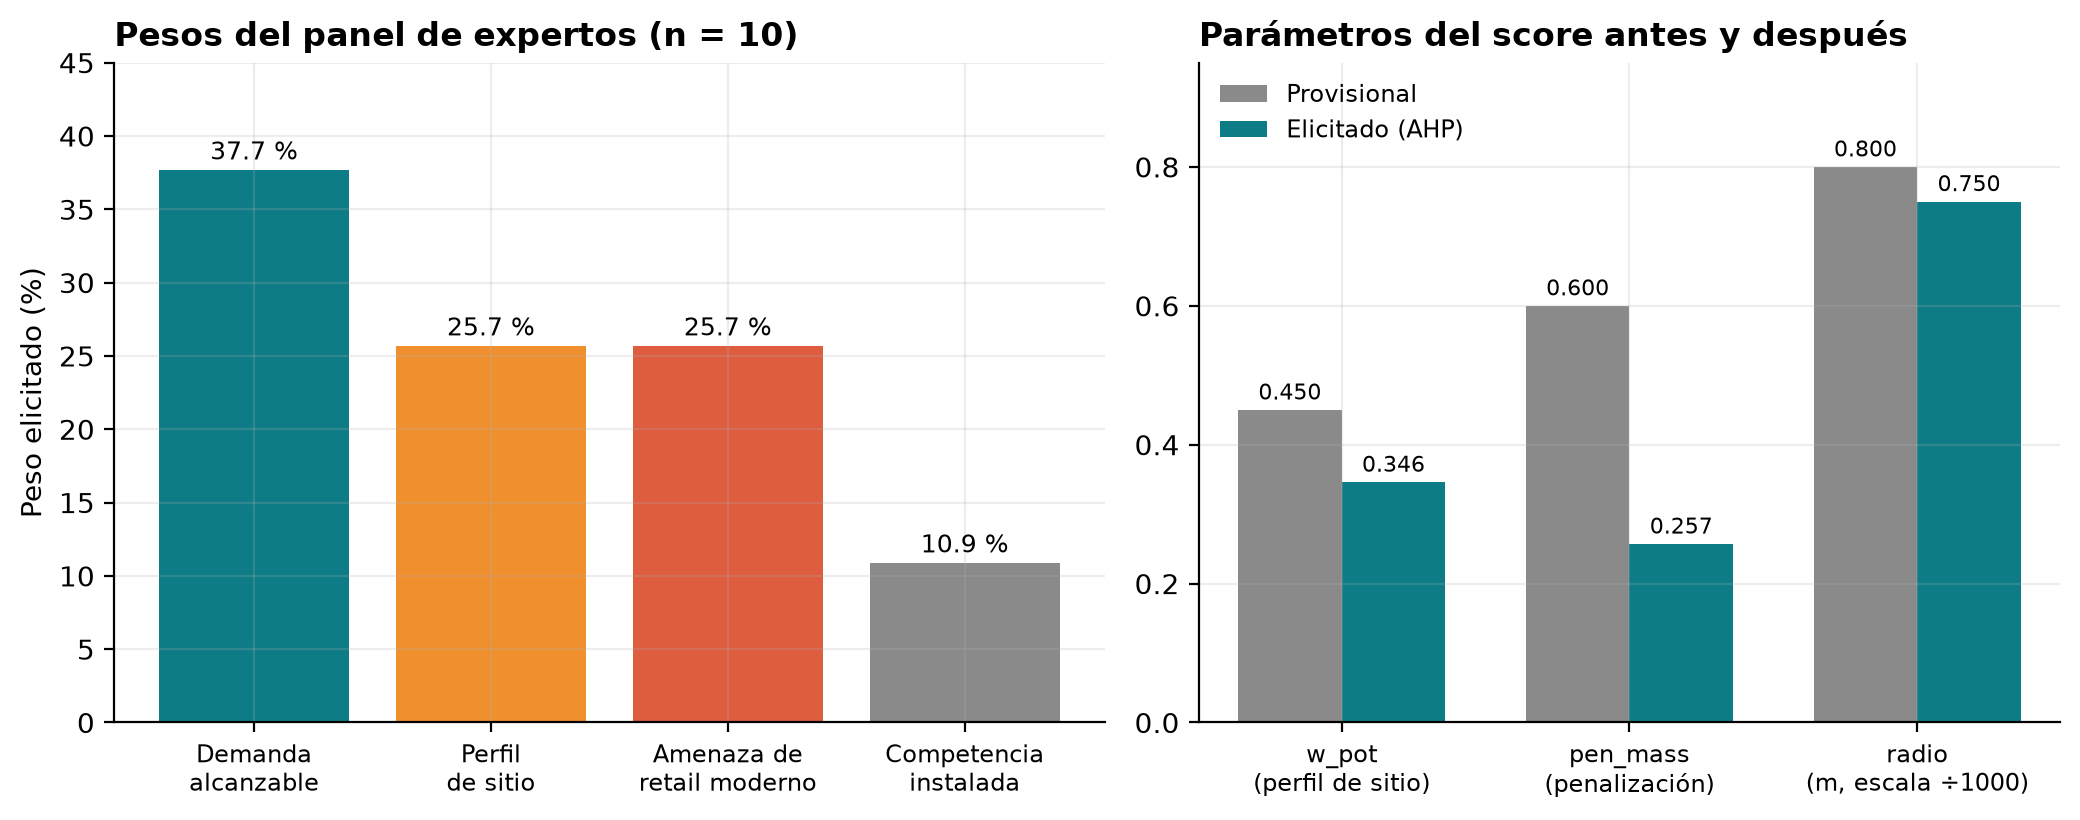
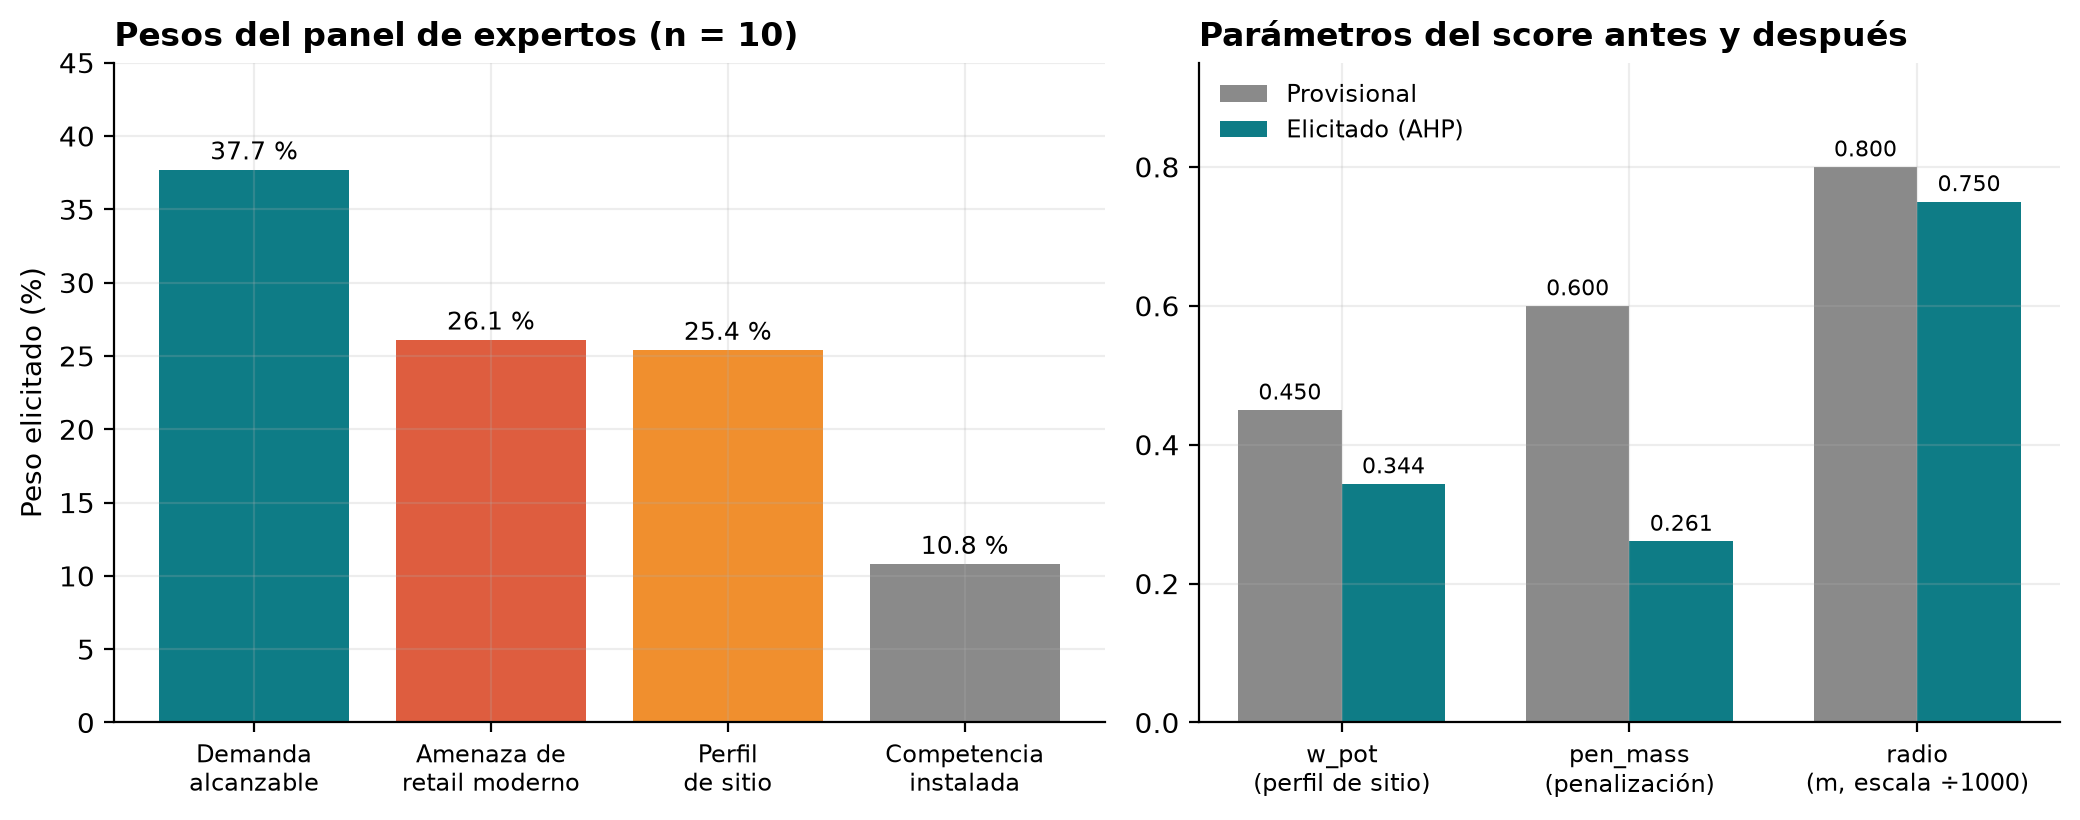
Usar los pesos AHP de la Tabla 14 en la figura 26 y en la sensibilidad

diff --git a/figuras_capitulo5.py b/figuras_capitulo5.py
@@ -119,13 +119,13 @@ for yy, v, p in zip(y, n, pob):
 ax.set_xlim(0, max(n) + 5)
 guardar(fig, "fig25_distribucion_territorial.png")
 
-crit = ["Demanda\nalcanzable", "Perfil\nde sitio", "Amenaza de\nretail moderno",
+crit = ["Demanda\nalcanzable", "Amenaza de\nretail moderno", "Perfil\nde sitio",
         "Competencia\ninstalada"]
-pes = [.377, .257, .257, .109]
+pes = [.377, .261, .254, .108]
 fig, (a1, a2) = plt.subplots(1, 2, figsize=(10.5, 4.2),
                              gridspec_kw={"width_ratios": [1.15, 1]})
 x = np.arange(len(crit))
-a1.bar(x, [p * 100 for p in pes], color=[PETROL, AMBAR, NARANJA, GRIS])
+a1.bar(x, [p * 100 for p in pes], color=[PETROL, NARANJA, AMBAR, GRIS])
 a1.set_xticks(x); a1.set_xticklabels(crit, fontsize=8.5)
 a1.set_ylabel("Peso elicitado (%)")
 a1.set_title("Pesos del panel de expertos (n = 10)", loc="left", weight="bold")
@@ -134,7 +134,7 @@ a1.set_ylim(0, 45)
 
 par = ["w_pot\n(perfil de sitio)", "pen_mass\n(penalización)", "radio\n(m, escala ÷1000)"]
 prov = [.450, .600, .800]
-elic = [.346, .257, .750]
+elic = [pes[2] / (pes[0] + pes[2] + pes[3]), pes[1], .750]
 x = np.arange(len(par)); w = .36
 a2.bar(x - w/2, prov, w, label="Provisional", color=GRIS)
 a2.bar(x + w/2, elic, w, label="Elicitado (AHP)", color=PETROL)

diff --git a/sensibilidad_ranking.py b/sensibilidad_ranking.py
@@ -11,9 +11,10 @@ import matplotlib.pyplot as plt
 import numpy as np
 import pandas as pd
 
-W_POT = 0.45
-PEN_MASS = 0.60
-RADIO = 800
+# Parametros elicitados por el panel de expertos (AHP)
+W_POT = 0.344
+PEN_MASS = 0.261
+RADIO = 750
 POB_MIN = 1500
 UMBRAL = 0.70
 
